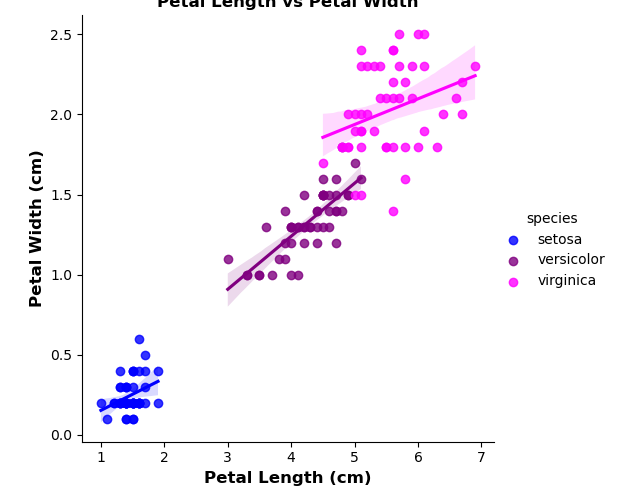
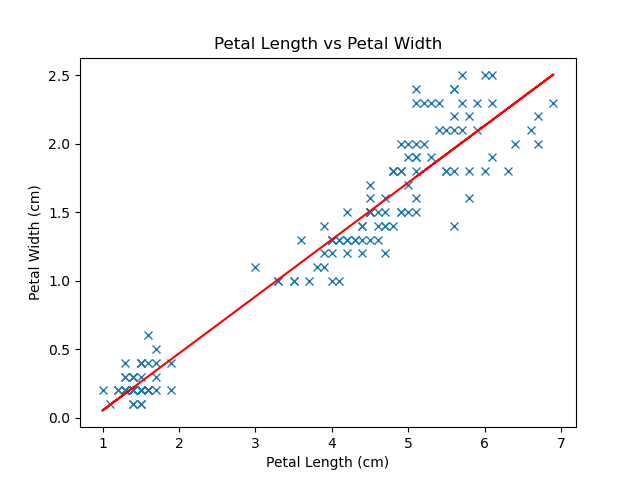
updated readme

diff --git a/analysis.py b/analysis.py
@@ -34,9 +34,11 @@ print(df['species'].value_counts())  # print the number of each species in the d
 print('\033[1mNumber of missing values in the dataset:\033[0m') # check missing values in the dataset.
 print(df.isnull().sum())  # print the number of missing values in each column of the dataset.
 
+
 # check data types of the columns in the dataset:
 print('\033[1mData types of the columns in the dataset:\033[0m')
 print(df.dtypes)  # print the data types of the columns in the dataset.
+print(df.info())  # information about the dataset
 
 
 # SUMMARY STATISTICS:
@@ -153,23 +155,31 @@ sns.pairplot(df, hue='species', palette={'setosa': 'blue', 'versicolor': 'purple
 plt.savefig('pairplot.png')
 plt.close()
  
-# SCATTERPLOTS:
+# SCATTERPLOT:
 
-# scatterplot of sepal length vs sepal width per species with regression line:
-sns.lmplot(x='sepal_length', y='sepal_width', data=df, hue='species', fit_reg=True, palette={'setosa': 'blue', 'versicolor': 'purple', 'virginica': 'magenta'})
-plt.xlabel('Sepal Length (cm)', color='black', fontsize=12, fontweight='bold')
-plt.ylabel('Sepal Width (cm)', color='black', fontsize=12, fontweight='bold')
-plt.title('Sepal Length vs Sepal Width', color='black', fontsize=12, fontweight='bold')
-plt.savefig('scatterplot_sepal.png')
-plt.close()
+# Petal length vs Petal width scatterplot with regression line:
 
-# scatterplot of petal length vs petal width per species with regression line:
-sns.lmplot(x='petal_length', y='petal_width', data=df, hue='species', fit_reg=True, palette={'setosa': 'blue', 'versicolor': 'purple', 'virginica': 'magenta'} )
-plt.xlabel('Petal Length (cm)', fontsize=12, fontweight='bold')
-plt.ylabel('Petal Width (cm)', fontsize=12, fontweight='bold')
-plt.title('Petal Length vs Petal Width', color='black', fontsize=12, fontweight='bold')
+petal_length = df['petal_length'] # petal length
+print(petal_length)
+print(type(petal_length))
+petal_length=df['petal_length'].to_numpy()  # convert petal length to numpy array
+print(petal_length)
+petal_width = df['petal_width'].to_numpy()  # convert petal width to numpy array
+print(petal_width)
+
+m, c = np.polyfit(petal_length, petal_width, 1)  # linear regression line
+print(m, c)
+
+fig, ax = plt.subplots()
+ax.plot(petal_length, petal_width, 'x')
+ax.plot(petal_length, m*petal_length + c, 'r-')
+ax.set_xlabel('Petal Length (cm)')
+ax.set_ylabel('Petal Width (cm)')
+ax.set_title('Petal Length vs Petal Width')
 plt.savefig('scatterplot_petal.png')
 plt.close()
+
+
 
 # CORRELATION:
 

diff --git a/README.md b/README.md
@@ -53,37 +53,30 @@ The [Iris dataset]('https://raw.githubusercontent.com/mwaskom/seaborn-data/maste
 
 ###    3. Examining the dataset:
 
-After loading the dataset, the structure and content of the data set was analysed by various steps. The first and last 5 rows were displayed to get an idea of what the data looks like and the information that it contains. The shape of the data set was looked at. This includes the number of rows and columns of the data to see the size of the dataset. The Iris dataset has 150 rows and 5 columns. Each row represents an observation of a flower each columns representing a variable. The first four columns are of type float64 which represents continuous numerical measurements such as petal and sepal lengths and widths, while the species column is of type int64 representing categorical data. The value counts of the target variable of species was looked at to check how many samples of each class of species was present. There was an equal number of 50 samples for each of the species showing that the dataset is balanced.   
-The dataset was checked for missing values using df.isnull(). There was no missing values within the dataset. 
-The summary of the dataset was sent to a text file. 
+After loading the dataset, the structure and content of the data set was analysed by various steps. The first and last 5 rows were displayed to get an idea of what the data looks like and the information that it contains. The shape of the data set was looked at. This includes the number of rows and columns of the data to see the size of the dataset. The Iris dataset has 150 rows and 5 columns. Each row represents an observation of a flower each columns representing a variable. The first four columns are of type float64 which represents continuous numerical measurements such as petal and sepal lengths and widths, while the species column is of type object representing categorical data. All columns have 150 non null values indicating no missing values. The dataset was also checked using df.isnull(). There was no missing values in the dataset. The value counts of the target variable of species was looked at to check how many samples of each class of species was present. There was an equal number of 50 samples for each of the species showing that the dataset is balanced.   
+The summary of the dataset was sent to a text file. Refer to summary_irisdata.txt for more information. 
 
-### 5. Summary Statistics:
+### 4. Summary Statistics:
 ***
+The [describe()]('https://pandas.pydata.org/pandas-docs/version/0.20.2/generated/pandas.DataFrame.describe.html') function in pandas generates descriptive statistics of the dataFrame giving a summary of the central tendency, dispersion and shape of the distribution of the dataset. 
+
+
 
 <img src='stats_iris.png' height=300 width=400>
 
-The describe() function in pandas generates descriptive statistics of the dataFrame giving a summary of the central tendency, dispersion and shape of the distribution of the dataset. 
+ The table aboves gives a summary of the main statistics for each numerical variable. The count is the number of observations of flowers. There is 150 flowers in the dataset. The mean is the average value, the standard deviation is a measure of the amount of variation of the data points from the mean. 25%, 50%(median), 75% percentiles gives an overview of the data distribution. 
 
-Sepal Length: 
--   The mean 5.84cm and median 5.80cm are close indicating a symmetric distribution
--   the standard deviation of 0.83 indicates low variability. 
+**Main observations:**
 
-Sepal Width:
--   the mean 3.06cm and median 3.00cm are close indicating symmetric distribution, with an even lower standard deviation of 0.44 showing low variability. 
-
-Petal Length:
--   The mean of 3.76cm is significantly lower than the median of 4.35cm indicating a left skewed distribution. 
--   A higher standard deviation of 1.76 indicates a higher variability among the data points. 
-
-Petal Width: 
--   The mean of 1.2cm is slightly lower than the median of 1.3cm which could indicate a slightly left skew. 
--   A standard deviation of 0.76 is low
+For petal length the mean of 3.76 cm is significantly lower than the median of 4.35cm, indicating there may be a left skewed distribution. The mean and median are equal in value in a perfectly symmetrical distribution. The mean being less than the median indicates that there are smaller values skewing the data or potential outliers pulling the mean down.  Petal length has the highest standard deviation of 1.76 indicating a higher variability among the data points. 
+The mean of petal width is 1.2cm which is slightly lower than the median of 1.3cm which although close to the median it may indicate a slightly left skew. The standard deviation is lower than petal length indicating less variability among the data points than for petal length.  
+For sepal length and sepal width the mean and medians are close indicating a more symmetric distribution, suggesting that the data points for sepal width are more evenly distributed around the mean. 
 
 
 
-
-### 6. Data Visualisation:
+### 5. Data Visualisation:
 ***
+
 [Histograms]('https://www.w3schools.com/statistics/statistics_histograms.php') show the distribution of numerical data by grouping data points that lie within a range of values in to a bin. The higher the bar the greater the frequency of values.
 
 
@@ -98,38 +91,63 @@ Petal Width:
 <img src='histogram_petal_length.png' height=400, width=400>
 </p>
 
-Observations:
+**Main Observations:**
 
-From the above histograms it can be seen that there is overlap between all species for sepal width and sepal length. 
+**Sepal measurements:**
 
-Iris setosa is clearly distinguishable from Iris Versicolor and Iris Virginica in petal width and petal length with Iris setosa having the smaller petal lengths and widths and is seen to be clustered at the lower end of the histogram. There is overlap seen between Iris Virginica and Iris Versicolor. 
+From the above histograms, It can be seen that there is overlap between all species for sepal width and sepal length, However, Iris setosa is seen to have the largest sepal width and smallest sepal length. Iris Virginica and Iris Versicolor have more overlapping sepal widths and lengths as seen also in the range values seen below. 
 
+_Sepal length:_
+
+-   Iris Setosa range: 4.30cm-5.8cm
+
+-   Iris Versicolor range: 4.90cm-7.00cm
+
+-   Iris Virginica range: 4.90cm -7.90cm
+
+_Sepal width:_
+
+-   Iris Setosa range: 2.30cm-4.4cm
+
+-   Iris Versicolor range: 2.00cm -3.4cm
+
+-   Iris Virginica range: 2.2cm-3.8cm
+
+**Petal measurements:**
+
+Iris setosa is clearly distinguishable from Iris Versicolor and Iris Virginica in petal width and petal length with Iris setosa having signigicantly smaller petal lengths and widths and is seen to be clustered at the lower end of the histogram. There is overlap seen between Iris Virginica and Iris Versicolor in both petal lengths and widths. 
 The higher standard deviation obtained for petal length is more than likely due to the significant difference between the species in petal length. Iris setosa has a mean petal length of 1.46cm in comparison to Iris Versicolor with a mean of 4.26cm and Iris Virginica with a mean of 5.55cm. 
+While petal width had less skewedness and a lower standard deviation than petal length it can be seen that Iris Setosa forms a distinct cluster at the lower end of the histogram separate from Iris Versicolor and Iris Virginica. The mean petal width of Iris Setosa of 0.25cm is significantly lower than that of Iris Versicolor with a mean of 1.33cm and Iris Virginica with a mean of 2.03cm.
 
-While petal width had a lower standard deviation than petal length it can be seen that Iris Setosa forms a distinct cluster at the lower end of the histogram separate from Iris Versicolor and Iris Virginica. The mean petal width of Iris Setosa of 0.25cm is significantly lower than that of Iris Versicolor with a mean of 1.33cm and Iris Virginica with a mean of 2.03cm. 
 
 
 ***
 
-[Boxplots]('https://www.w3schools.com/statistics/statistics_box_plots.php') show the distribution of data by displaying the minimum and maximum value, the first Quartile (25%: the lower part of the box), third quartile (75%: the upper area of the box), the median (50%: represented by a line inside the box). Boxplots give a visual summary of the data distribution and the presence of skewness/outliers. 
 
-
+[Boxplots]('https://www.w3schools.com/statistics/statistics_box_plots.php') show the distribution of data by displaying the minimum and maximum value, the first Quartile (25%: the lower part of the box), third quartile (75%: the upper area of the box), the median (50%: represented by a line inside the box). Boxplots give a visual summary of the data distribution and the presence of skewness/outliers. Outliers can be identified using boxplots or calculations using the Inter-quartile range.
 
 <img src='boxplots.png' width=800 height=800>
-Observations:
+
+**Main Observations:**
+The boxplots show that the Iris Setosa has the lowest measurements for sepal length, petal length and petal length and the highest measurement for sepal width. Overlapping is seen between all species in sepal length and width with more overlapping observed for Iris Virginica and Iris Versicolor. Iris Setosa is significantly separated from the other two species in both petal length and petal width, with Iris Virginica and Iris Versicolor showing overlap.
+From the boxplots, outliers can be seen across certain species and features with Iris Setosa having a higher amount of outliers for petal width and length than Iris Versicolor and Iris Virginica. While the separation between Iris Setosa and the other variables appears to be large, its still important to deal with outliers to ensure the integrity of the data. Due to the large separation observed, outliers might not significantly affect the overall separation but could impact specific analysis or models. For the purposes of this study, outliers are not removed as the objectives of the study to visualise the data for any trends or relationships are still met. 
+
 
 ***
 
-
-
 A [Pairplot]('https://www.geeksforgeeks.org/python-seaborn-pairplot-method/') is used to see if there is any relationships between two variables. 
-The plots are in a scatterplot matrix format where the row name represents the x-axis and column name represents the y-axis. The main diagonal subplots are the histogram distributions for each variable. 
+The plots are in a scatterplot matrix grid format where the row name represents the x-axis and column name represents the y-axis. The main diagonal subplots are the histogram distributions for each variable. 
 
 <img src='pairplot.png' height=500 width=600>
 
 
-Observations:
 
+
+**Main observations:**
+
+
+There is a clear separation for Iris Setosa in both petal and sepal measurements with Iris Setosa forming distinct clusters, therefore the data is said to be linearly separable. Iris Setosa is easily distinguishable from Iris Versicolor and Iris Virginica which show overlap especially in sepal measurements. They show more separation in petal measurements. 
+There appears to be a positive linear relationship between petal width and petal length as the data points cluster around a straight line that slopes upwards from left to right, showing a consistent relationship between the two variables. From the heatmap below the correlation coefficient is 0.96 which indicates a very strong positive linear relationship between the variables. 
 
 ***
 
@@ -138,12 +156,18 @@ A [Heatmap]('https://seaborn.pydata.org/generated/seaborn.heatmap.html') is used
 <img src='correlation_heatmap.png' height=600 width=600>
 
 
-Observations: 
+
 
 [Correlation](https://en.wikipedia.org/wiki/Pearson_correlation_coefficient) coefficients indicate the strength and direction of the linear relationship between the variables. Positive correlation indicates that as one variable increases the other variable tends to increase also. 
-A correlation of 0.96 is seen for petal length vs petal width. This is a strong positive correlation that is close to 1 between the variables. This means that as petal length increases petal width increases also. 
 
+A correlation of 0.96 is seen for petal length vs petal width. This is a near perfect positive correlation that is close to 1 between the variables. This means that as petal length increases petal width increases also. These features are very closely related, by knowing the petal length it would allow you to predict the petal width with a high degree of accuracy. 
+In addition, there is a very strong positive correlation between sepal length and petal length at 0.87 which indicates that as the sepal length increases the petal length also tends to increase. Although the relationship is not as strong as between petal length and petal width there is a significant linear relationship between the variables. 
+There is also a strong positive correlation between sepal length and petal width at 0.82 which sugests that there is a significant linear relationship between sepal length and petal width. 
+
+
+
+The high correlation of 0.96 for petal length vs petal width indicates a strong linear relationship between these features. 
+
+ Sepal length has a strong correlation with both petal length and petal width meaning it could be useful as a predictor for these petal measurements. The strong correlations indicate that changes in sepal lengths are associated with changes in petal length and petal width, Therefore a model using sepal length as a predictor is likely to have good accuracy, although accuracy would not be 100% due to the correlations not being exactly at 1.0, it could still be used as an estimate for petal length and petal width. 
 ***
-<img src='scatterplot_sepal.png' height=500 width=500>
-
-<img src='scatterplot_petal.png' height=500 width=500>
+<
